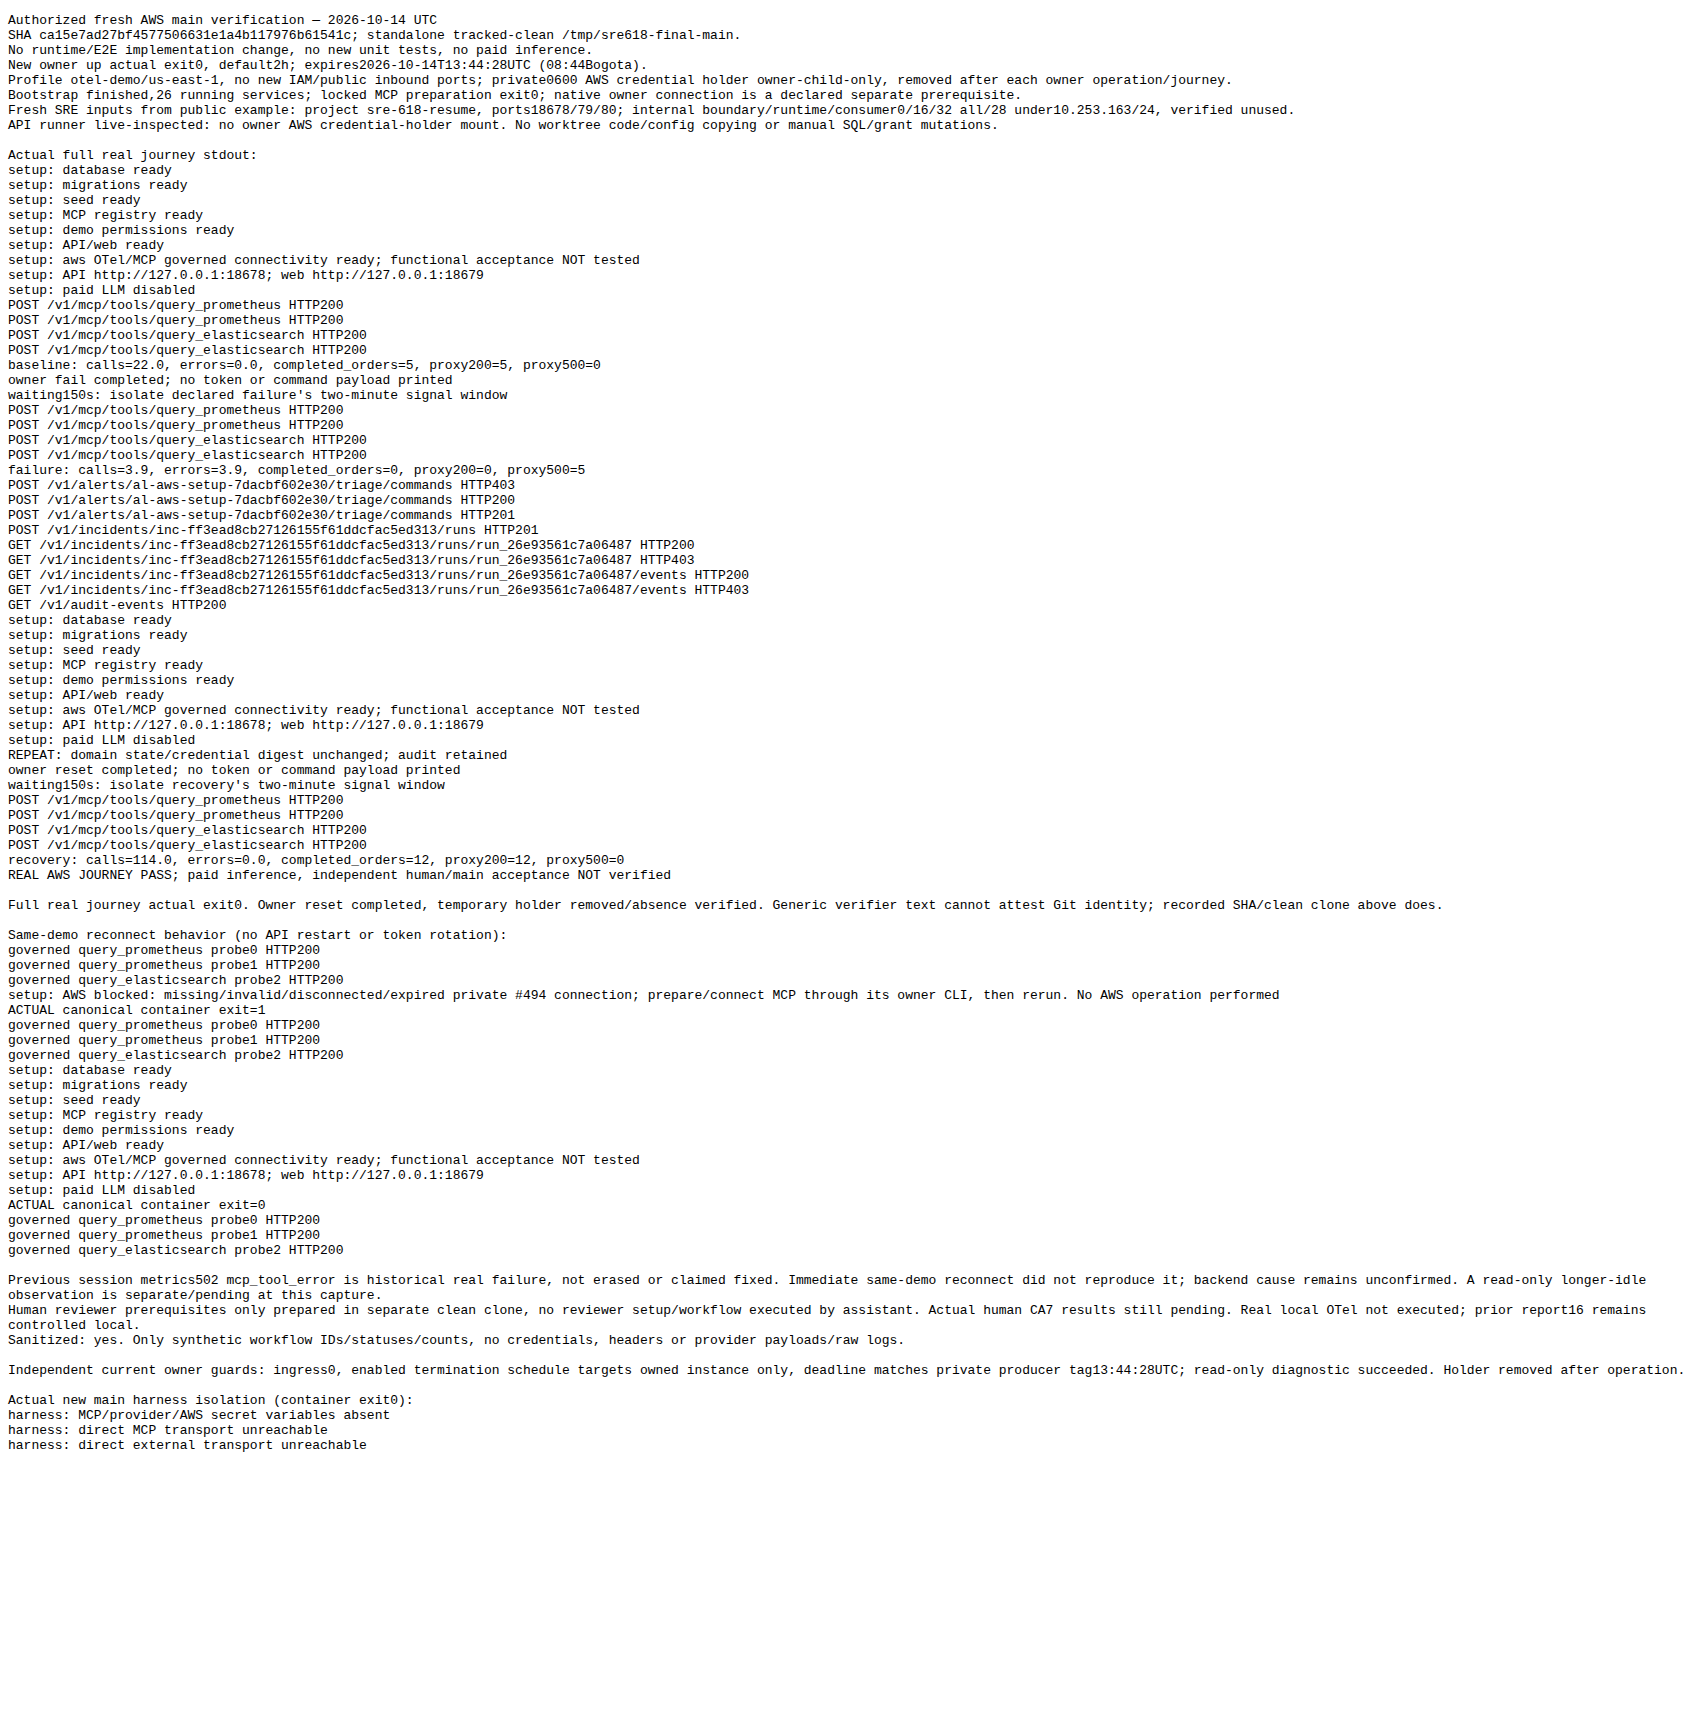
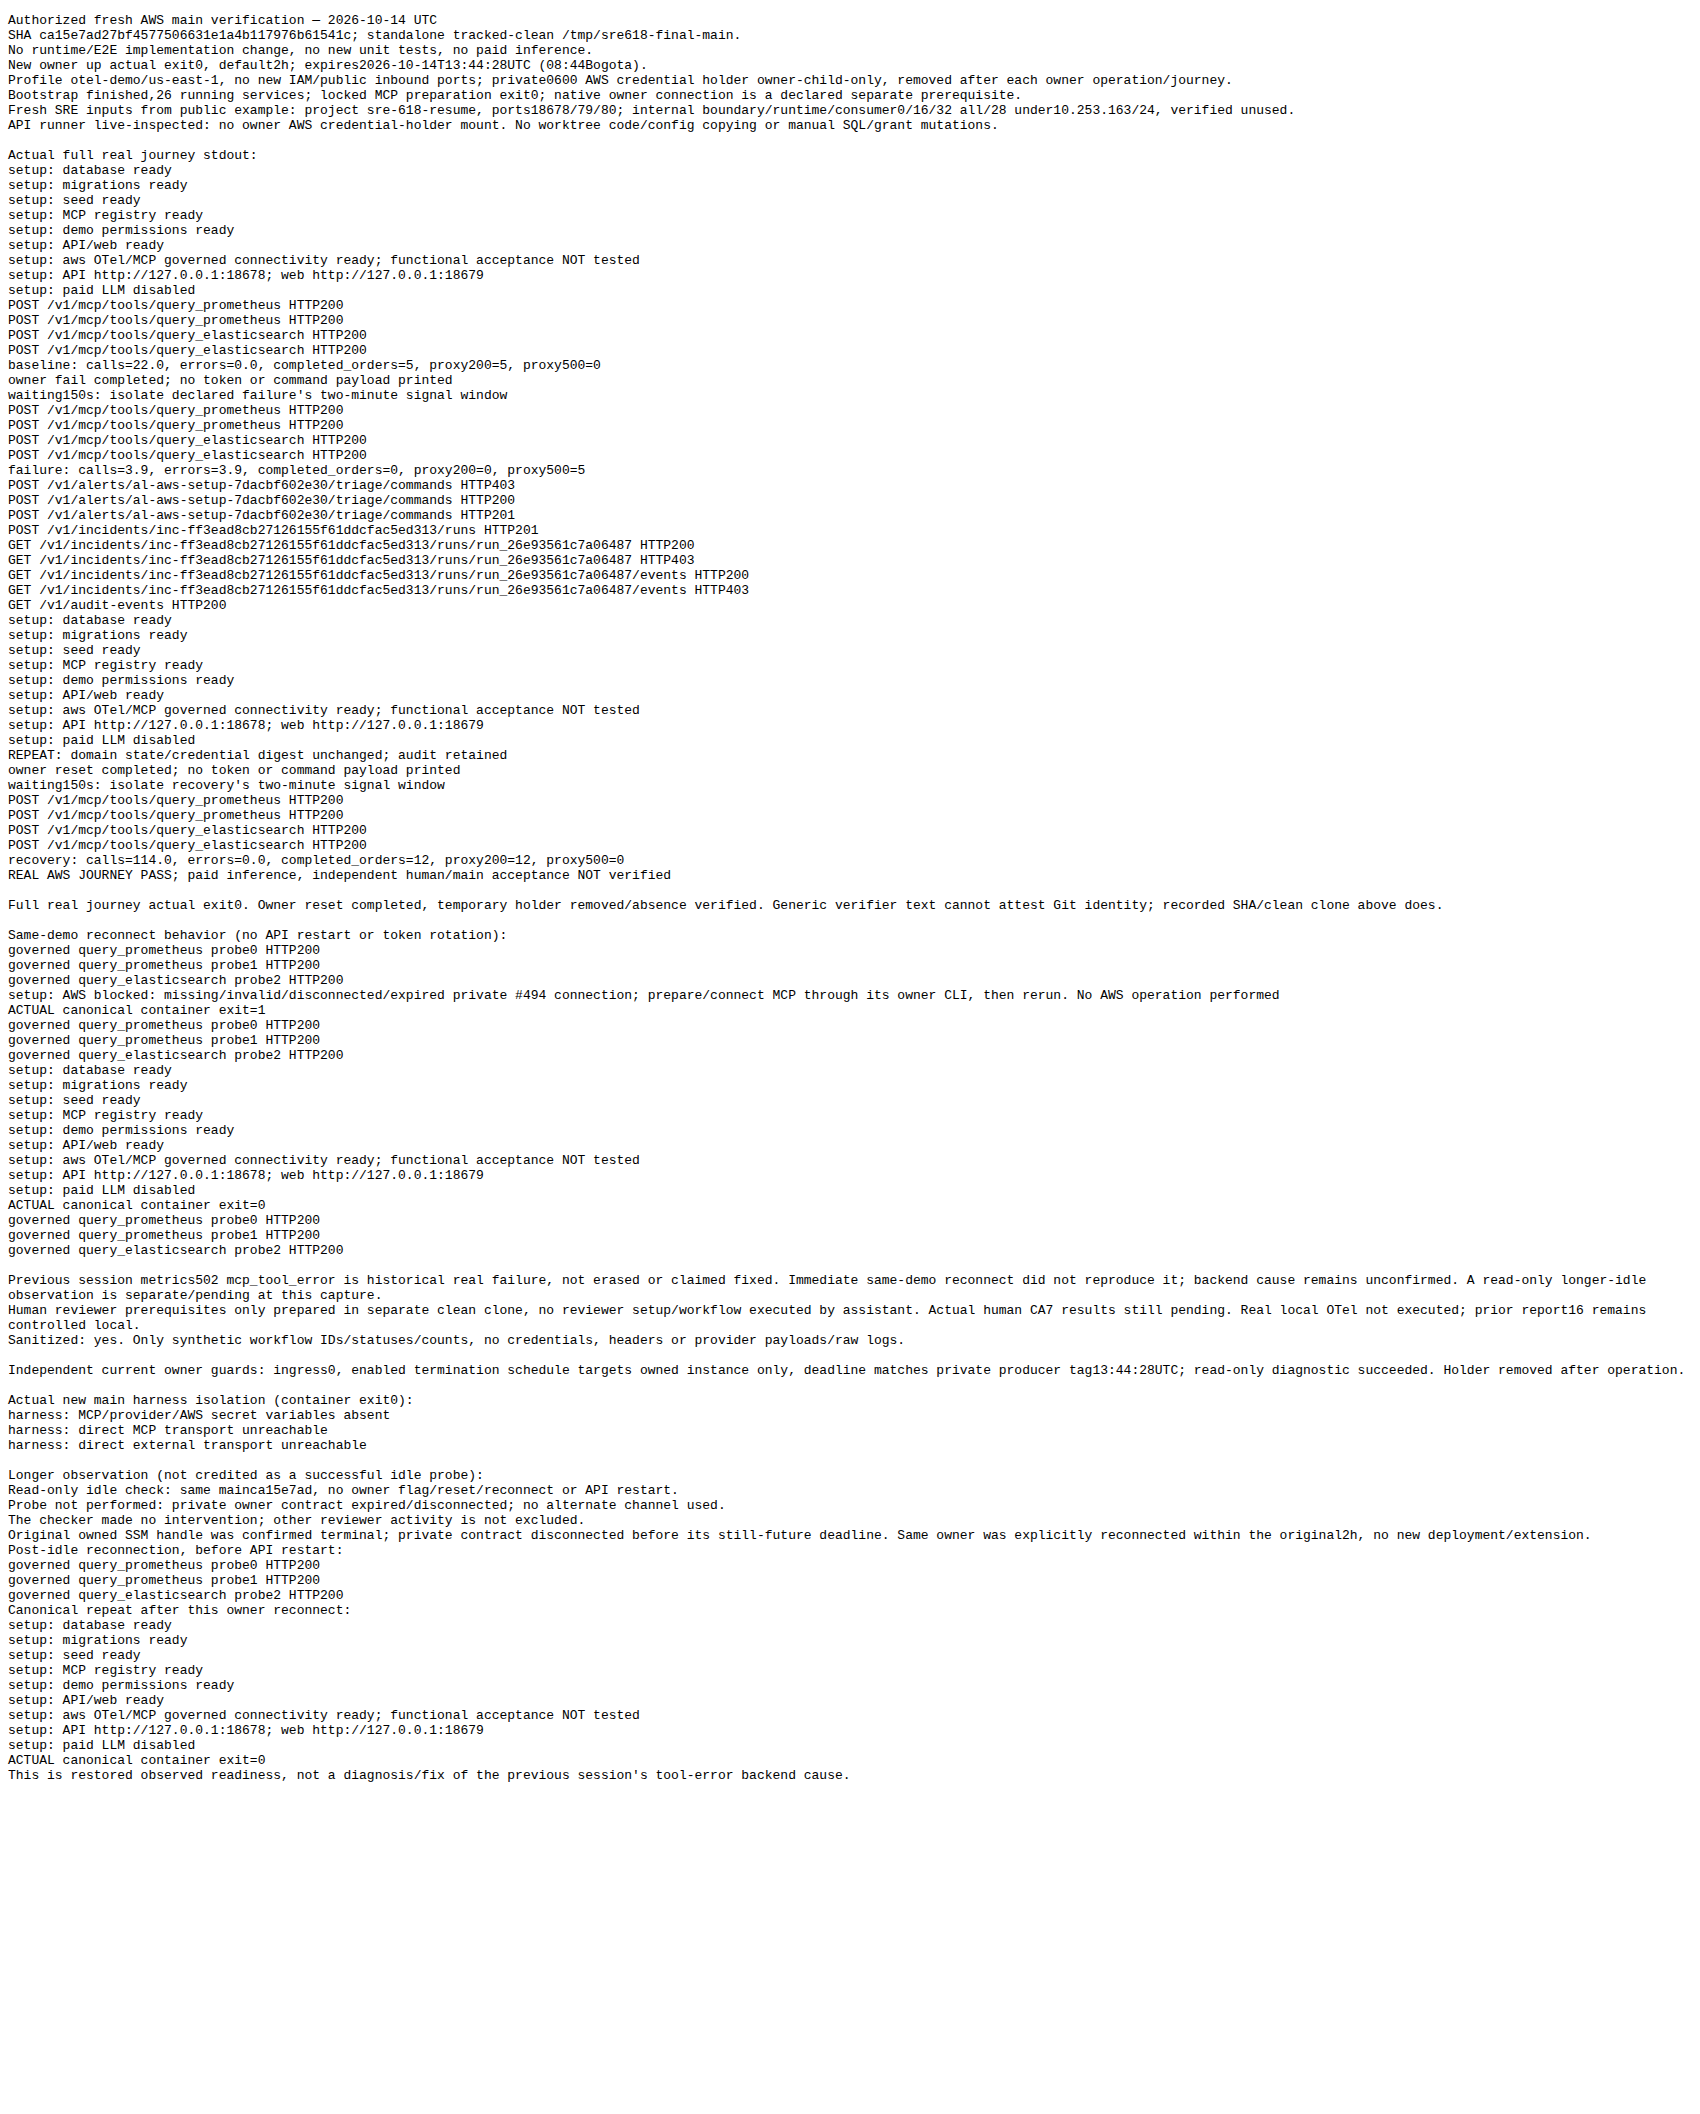
docs(setup): record post-idle recovery and containerized replay

diff --git a/docs/evidence/issue-618/15-main-reproduction.md b/docs/evidence/issue-618/15-main-reproduction.md
@@ -34,8 +34,15 @@ uv.lock pin runtime dependencies; the owner Dockerfile pins AWS CLI2.36.49.
 `OTEL_OWNER_PRIVATE_DIR` is an explicit host path, never credential contents.
 
 ```sh
-docker build --target runtime -f docker/api.Dockerfile -t sre618-main-api:220cd462 .
-docker build -f docker/otel-owner.Dockerfile -t sre618-owner:2.36.49 .
+docker compose --env-file .env -p sre618-review -f compose.yaml build api
+docker run --rm --user "$(id -u):$(id -g)" --group-add 967 -e HOME=/tmp \
+  --entrypoint docker \
+  --mount "type=bind,source=$(pwd -P),target=$PWD,readonly" \
+  --mount type=bind,source=/var/run/docker.sock,target=/var/run/docker.sock \
+  --mount type=bind,source=/usr/bin/docker,target=/usr/bin/docker,readonly \
+  --mount type=bind,source=/usr/lib/docker/cli-plugins/docker-buildx,target=/usr/lib/docker/cli-plugins/docker-buildx,readonly \
+  -w "$PWD" sre618-review-api:latest --host unix:///var/run/docker.sock \
+  build -f docker/otel-owner.Dockerfile -t sre618-owner:2.36.49 .
 docker run --rm --network host --user "$(id -u):$(id -g)" --group-add 967 \
   -e HOME=/tmp -e "SRE_OWNER_PRIVATE_DIR=$OTEL_OWNER_PRIVATE_DIR" --entrypoint python \
   --mount "type=bind,source=$(pwd -P),target=$PWD,readonly" \
@@ -44,11 +51,11 @@ docker run --rm --network host --user "$(id -u):$(id -g)" --group-add 967 \
   --mount type=bind,source=/usr/bin/docker,target=/usr/bin/docker,readonly \
   --mount type=bind,source=/usr/lib/docker/cli-plugins/docker-compose,target=/usr/lib/docker/cli-plugins/docker-compose,readonly \
   --mount type=bind,source=/usr/lib/docker/cli-plugins/docker-buildx,target=/usr/lib/docker/cli-plugins/docker-buildx,readonly \
-  -w "$PWD" sre618-main-api:220cd462 "$PWD/scripts/verify_setup_aws_journey.py" "$PWD/.env"
+  -w "$PWD" sre618-review-api:latest "$PWD/scripts/verify_setup_aws_journey.py" "$PWD/.env"
 docker run --rm --network none --user "$(id -u):$(id -g)" --entrypoint python \
   --mount "type=bind,source=$PWD/scripts,target=/work/scripts,readonly" \
   --mount "type=bind,source=$PWD/.env.example,target=/work/.env.example,readonly" \
-  sre618-main-api:220cd462 /work/scripts/verify_setup_preflight.py
+  sre618-review-api:latest /work/scripts/verify_setup_preflight.py
 ```
 
 The E2E invokes exactly the canonical setup on first/repeated start, then queries
@@ -75,3 +82,7 @@ replace the state mount with `/tmp/sre618-main-local-private`, and invoke
 Expected/actual exit0, retained domain/audit; occupied-port and fixture-outage
 nonzero, bounded correction converges. The script stops only its explicit
 fixture and scoped SRE; it never deletes volumes or resets real OTel.
+
+Replay correction: image preparation now uses Compose and an API tooling
+container for the owner build. Historical main report15 is unchanged; the same
+builder path was executed successfully for report17, without AWS credential mounts.

diff --git a/docs/evidence/issue-618/17-resume-reproduction.md b/docs/evidence/issue-618/17-resume-reproduction.md
@@ -23,8 +23,15 @@ mounts it; the API runner receives only its path. The observed holders were
 removed after each operation/journey. New runs require fresh authorized provision.
 
 ```sh
-docker build --target runtime -f docker/api.Dockerfile -t sre618-review-api:ca15e7ad .
-docker build -f docker/otel-owner.Dockerfile -t sre618-owner:2.36.49 .
+docker compose --env-file /tmp/sre618-resume-private/sre.env -p sre618-review -f compose.yaml build api
+docker run --rm --user "$(id -u):$(id -g)" --group-add 967 -e HOME=/tmp \
+  --entrypoint docker \
+  --mount "type=bind,source=$(pwd -P),target=$PWD,readonly" \
+  --mount type=bind,source=/var/run/docker.sock,target=/var/run/docker.sock \
+  --mount type=bind,source=/usr/bin/docker,target=/usr/bin/docker,readonly \
+  --mount type=bind,source=/usr/lib/docker/cli-plugins/docker-buildx,target=/usr/lib/docker/cli-plugins/docker-buildx,readonly \
+  -w "$PWD" sre618-review-api:latest --host unix:///var/run/docker.sock \
+  build -f docker/otel-owner.Dockerfile -t sre618-owner:2.36.49 .
 docker run --rm --network host --user "$(id -u):$(id -g)" --group-add 967 \
   -e HOME=/tmp -e "SRE_OWNER_PRIVATE_DIR=$OTEL_OWNER_PRIVATE_DIR" --entrypoint python \
   --mount "type=bind,source=$(pwd -P),target=$PWD,readonly" \
@@ -33,7 +40,7 @@ docker run --rm --network host --user "$(id -u):$(id -g)" --group-add 967 \
   --mount type=bind,source=/usr/bin/docker,target=/usr/bin/docker,readonly \
   --mount type=bind,source=/usr/lib/docker/cli-plugins/docker-compose,target=/usr/lib/docker/cli-plugins/docker-compose,readonly \
   --mount type=bind,source=/usr/lib/docker/cli-plugins/docker-buildx,target=/usr/lib/docker/cli-plugins/docker-buildx,readonly \
-  -w "$PWD" sre618-review-api:ca15e7ad "$PWD/scripts/verify_setup_aws_journey.py" \
+  -w "$PWD" sre618-review-api:latest "$PWD/scripts/verify_setup_aws_journey.py" \
   /tmp/sre618-resume-private/sre.env
 ```
 
@@ -55,3 +62,12 @@ Independent reviewer prerequisites were prepared in another clean main clone,
 with its own private initial configuration/new project/ports. Assistant did not
 execute that reviewer's setup or journey. Actual human CA7 results remain pending;
 real local OTel remains not executed and report16 remains explicitly controlled.
+
+Containerized owner build was actually executed successfully. Its tooling image
+lacks Git for embedded build-attestation metadata; checkout identity is verified
+externally, not claimed as embedded. No credential holder was mounted to builder.
+
+Candidate QA is separate: initial evidence head7d577ad CI failed one existing
+browser immediate counter assertion (122/123 passed). That unchanged spec
+subsequently passed20 local container repetitions; no test was edited/skipped
+or result rewritten. Updated evidence head requires fresh hosted CI.

diff --git a/odd/tasks/issue-618-setup.md b/odd/tasks/issue-618-setup.md
@@ -363,3 +363,30 @@ postreconnectqueries200 withoutAPIrestart; samecanonicalACTUALexit0 andthree
 queries200again. Previous502notreproduced, no rootcause/fix claim. Reviewer
 notifiedsetupcommand/freshprereqpaths/deadline08:44Bogota; requestedactualstep
 results separately, nohumanproofyet. Allnewwork sourceca15e7ad trackedclean.
+Published/attached639 head7d577ad0,282lines, closingIssuesReferencesempty; new
+mainrealreport17/screenshot/reproduction/matrix, runtimeunchanged. Currenthead
+CI/reviewpending; mustnevercreditprevious639head ifnewidle/human evidencecommit.
+Longeridlechecker66553 confirmedlive, onlyread-onlyAPI, noflags/restarts;
+independenthuman resultsstillpending, reviewer setupnotexecutedbyassistant.
+
+Idle66553 terminal: noAPIprobe credited, SSM96227 ended and contractdisconnected
+before30mincheck; expiry stillfuture. Sameowner25196 reconnected withinapproved
+2h; postidleAPI43499 actual0/threequeries200 withoutAPIrestart/rotation. Prior502
+notreproduced; no backendcause/fix claim. No additionalAWSlaunch/extension.
+PRdemocommand audit founddirectdockerbuild notmatchingCompose/run policy. Fixed
+replaydocs13/15/17 only, preservedhistoricalreports; actualsamecontainerizedowner
+builder92764 exit0/noAWScredentialmount. EmbeddedGitattestationunavailable in
+builder (Gitnotinstalled), externalcheckoutSHAverification remainsauthoritative.
+PR639 replaydocs13/15/17 nowallCompose/run commands (nohostdockerbuild), current
+base339lines beforefinalidleappend. Historicalreports notrewritten. Actualowner
+containerbuilder passed; noAWScredentialholder mount. Longidle wasNOTpassed:
+checker66553 terminalunavailable becauseSSM96227 ended; onlyexacthandlepolled,
+owner25196 restoredsameconnectionwithinTTL. Postidle43499 actual0/allthree
+APIqueries200 withoutAPIrestart, no tokenrotation; furthercanonicalchecklive.
+No reviewercontainers observed atlastboundedprojectcheck; nohumanproofinferred.
+
+Initial639 CI38565265755 failedproduction-browser at existingauditEvents spec273:
+immediatecounterexpected1 butundefined afterclick; 122/123passed. NoCIgreenclaim.
+Sameunchangedspec70767 repeated20times/4workers againstactualmainweb:20passed
+9.9s. Source/testunchanged; no weakening/retries/skips orspeculativeUIpatch.
+New evidence/replayhead mustgetfreshCI; oldfailedrunretainedassuch.

diff --git a/docs/evidence/issue-618/13-container-reproduction.md b/docs/evidence/issue-618/13-container-reproduction.md
@@ -42,8 +42,15 @@ Only reviewed source should receive local Docker control. Set the caller's
 Docker configuration to the local Unix socket, never an ambient remote context.
 
 ```sh
-docker build -f docker/otel-owner.Dockerfile -t sre618-owner:2.36.49 .
 docker compose --env-file .demo-state/aws-container/sre.env -p sre618-review -f compose.yaml build api
+docker run --rm --user "$(id -u):$(id -g)" --group-add 967 -e HOME=/tmp \
+  --entrypoint docker \
+  --mount "type=bind,source=$(pwd -P),target=$PWD,readonly" \
+  --mount type=bind,source=/var/run/docker.sock,target=/var/run/docker.sock \
+  --mount type=bind,source=/usr/bin/docker,target=/usr/bin/docker,readonly \
+  --mount type=bind,source=/usr/lib/docker/cli-plugins/docker-buildx,target=/usr/lib/docker/cli-plugins/docker-buildx,readonly \
+  -w "$PWD" sre618-review-api:latest --host unix:///var/run/docker.sock \
+  build -f docker/otel-owner.Dockerfile -t sre618-owner:2.36.49 .
 docker run --rm --network host --user "$(id -u):$(id -g)" --group-add 967 \
   -e HOME=/tmp -e "SRE_OWNER_PRIVATE_DIR=$OTEL_OWNER_PRIVATE_DIR" --entrypoint python \
   --mount "type=bind,source=$(pwd -P),target=$PWD,readonly" \
@@ -71,3 +78,7 @@ This is feature-candidate evidence, not final-main or independent reviewer
 execution. Old suite1908pass remains compatibility evidence for unchanged
 production runtime; new-hook live evidence is this run. Current-head CI/review
 must be evaluated separately. Sanitized: yes.
+
+Replay correction: the owner build now runs inside API tooling so every demo
+command uses Compose/run. Historical report13 is unchanged. Same builder was
+executed successfully for report17; no owner credentials mounted to the builder.

diff --git a/docs/evidence/issue-618/acceptance.md b/docs/evidence/issue-618/acceptance.md
@@ -33,7 +33,9 @@ three governed queries returned200 before any API restart, then canonical exit0.
 Owner guard: ingress0, enabled targeted schedule, expiry2026-10-14T13:44:28UTC.
 Every temporary owner credential holder was removed after its operation/journey.
 The previous metrics502 is not erased or declared fixed: immediate reconnect did
-not reproduce it; longer-idle observation and producer root cause remain separate.
+not reproduce it; longer observation found the owner connection had ended, so no idle probe was
+credited. Same-owner reconnection restored queries200/canonical0 without API
+restart; original producer tool-error cause remains unconfirmed.
 Human reviewer has a distinct clean main checkout/private initial config; no
 reviewer setup/workflow was executed by the assistant. CA7 awaits actual results.
 
